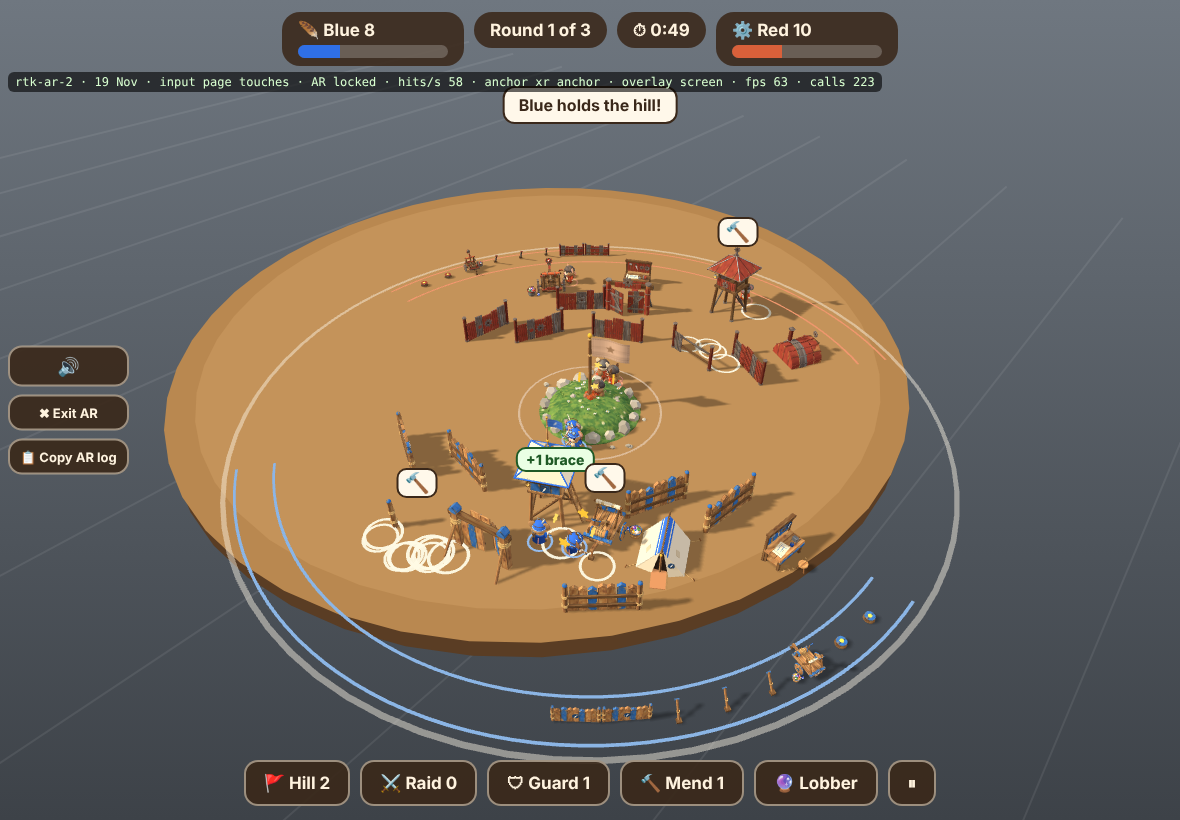
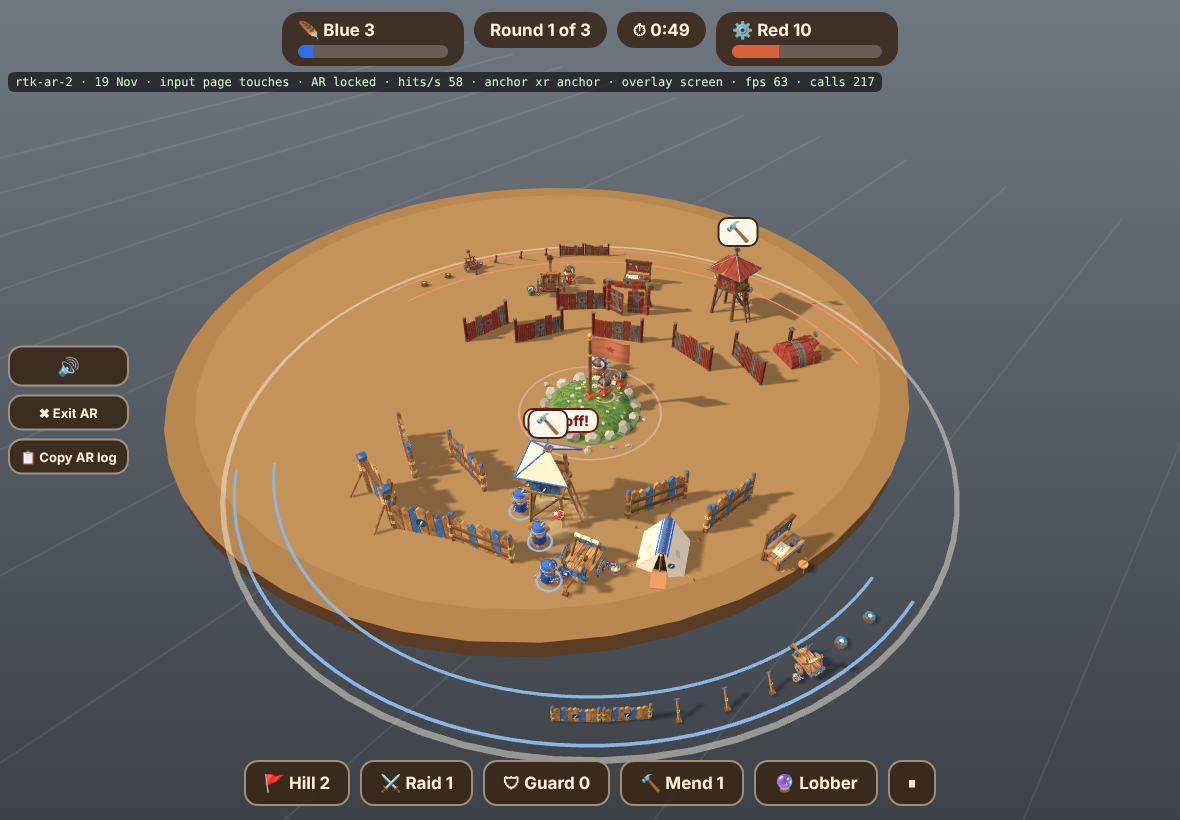
Round Table Kingdom v2: tuned numbers (hill 24 s a Big Marble, red walks a little quicker), AR small-piece test
Claude-Session: https://claude.ai/code/session_0171oc5wTsPoimaja7RRfUcs

diff --git a/games/sofa-siege/game.js b/games/sofa-siege/game.js
@@ -23,10 +23,10 @@ var CONFIG={
     blast:.3,bigBlast:.36,sturdy:.55,                      /* how far a marble and a Big Marble knock parts off (at piece scale 0.88); posts and rails only come off within this share of it; a Big Marble that lands on the Keep breaks the leg nearest to where it hit, braced or not */
     throwNear:.6,throwFar:.2,                   /* how far a knocked part flies: nearest to the hit, and at the edge of the blast */
     corkCount:5,corkSpread:.42,corkHit:.2,corkCd:8,   /* cork scatter: corks, spread, how near a cork must land to make a mouse dizzy, seconds before the next scatter */
-    hillSecs:18,bigMax:3,                       /* seconds holding the hill for one Big Marble; most that can be stored */
+    hillSecs:24,bigMax:3,                       /* seconds holding the hill for one Big Marble; most that can be stored */
     piecePts:{tower:54,lobber:8,wall:5,gate:3.5,workshop:4,tent:5,brace:1,trap:1},collapsePts:2,hillPts:.07,        /* score: what a whole piece is worth when all of it is off at a round's end; each part off counts its share (the Keep counts most, walls least, so walls are not a gift to the other side, and blue's seven-plank walls count the same as red's five-plank ones); a collapse you caused; a second of hill for each mouse more than the other side */
-    mendTime:12,                                /* seconds to put one part back */
-    raidEvery:3,redRaid:1,raidReach:.4,        /* seconds between a raider's pulls; red's are this much quicker; reach */
+    mendTime:12,redWalk:1.15,                   /* seconds to put one part back; red's mice walk this much quicker in the fight (it evens out blue's edge: with the same speed blue won about two matches in three) */
+    raidEvery:3,redRaid:1,raidReach:.4,        /* seconds between a raider's pulls; red's interval times this (1: the same for both); reach */
     guardRange:1.1,blueGuard:1.5,guardEvery:2,guardChance:.45,guardRing:.55,   /* guard corks: reach, blue's reach times this, seconds between, chance to send the raider home dizzy, how far guards stand from the Keep */
     fallReach:.2,chainReach:.13,chainThrow:.42, /* a landing part makes mice this near dizzy, and knocks an attached part this near if it was thrown at least this far */
     collapseReach:.25,slowMo:.4,keepFall:2.4,   /* a collapse makes mice this near the piece dizzy; slow-motion seconds; seconds a Keep takes to fall before the win card */
@@ -35,9 +35,9 @@ var CONFIG={
     shopMend:.5,tentDizzy:3,twoLobbers:.55,trapReach:.2,trapReset:2,   /* a whole workshop halves mending time; a whole tent: dizzy for 3 s; two lobbers: reload times this; trap reach; seconds to set a trap again */
     arcLow:[.1,.09],arcHigh:[.3,.24],highBlast:.5,   /* arc height = a + distance x b: the flat shot is stopped by a wall just in front of its target, the high lob clears it but has this share of the blast */
     plan:{hill:2,raid:1,guard:0,mend:1},        /* how a bot (and a player to begin with) splits the four mice that are not at the lobber */
-    randomAim:1.9,botHigh:.5,botFirst:1.5,       /* a random-fire bot's spread round the other base; how often an aiming bot lobs over a wall in its way; seconds before a bot's first shot of a round */
-    legSturdy:.5,braceSturdy:.7,   /* an unbraced leg breaks only when the hit is within this share of the blast */
-    aimWorth:{leg:30,lastLeg:60,brace:3,mouse:2},aimTry:[-.25,0,.2,.45],bigWorth:8,aimDeep:5,   /* the aiming bot values a shot by the points it would score, plus this much for a Keep leg (more for the leg that brings it down) and for a Keep brace; how far before and past a part it tries; a Big Marble is kept for a shot worth this much more */
+    randomAim:1.9,botFirst:1.5,                 /* a random-fire bot's spread round the other base; seconds before a bot's first shot of a round */
+    legSturdy:.5,braceSturdy:.7,                /* an unbraced Keep leg, and a Keep brace, come off only when the hit is within this share of the blast */
+    aimWorth:{leg:30,lastLeg:60,brace:3,mouse:2},aimTry:[-.25,0,.2,.45],bigWorth:8,aimDeep:5,   /* the aiming bot values a shot by the points it would score, plus this much for a Keep leg (more for the leg that brings it down) and for a Keep brace; how far before and past a part it tries; a Big Marble is kept for a shot worth this much more; how many of its best shots it tries again with its wobble */
     botRetarget:4                               /* seconds between a bot's looks at its plan */
   },
   /* per level: seconds between bot shots, aim error, seconds before it sends its squad, and how many points ahead the red bot must be before it spares a scrapper for the walls */
@@ -561,7 +561,7 @@ function freeV2(m,dt){
   else if(role==='raid'&&SG.phase==='fight'){p=raidTarget(m);if(p){tx=p.x;tz=p.z;slack=.8;m.raidId=p.id;}else m.raidId=0;}
   else{var od=side.order||(function(){var w=hillSpot(m.side,0,.25);return {x:w[0],z:w[1]};})(),a=m.i/5*PI*2+.3,rad=CONFIG.squadRing*U()*.8,off=rotV(m.side,Math.cos(a)*rad,Math.sin(a)*rad);tx=od.x+off[0];tz=od.z+off[1];slack=.35;}
   m.crewGoal=role==='crew';goTo(m,tx,tz,slack);
-  if(walk(m,dt,WALK())){m.state=role==='hill'||role==='crew'||role==='guard'||role==='raid'?'hold':'idle';m.goal=false;m.crewing=role==='crew';if(role==='crew'){var lb=lobberOf(m.side);m.rot=Math.atan2(lb.x-m.x,lb.z-m.z);}}else{m.state='go';m.goal=m.q<=0;m.crewing=false;}
+  if(walk(m,dt,WALK()*(side.team==='red'?C2.redWalk:1))){m.state=role==='hill'||role==='crew'||role==='guard'||role==='raid'?'hold':'idle';m.goal=false;m.crewing=role==='crew';if(role==='crew'){var lb=lobberOf(m.side);m.rot=Math.atan2(lb.x-m.x,lb.z-m.z);}}else{m.state='go';m.goal=m.q<=0;m.crewing=false;}
   if(SG.phase!=='fight'||role==='crew')return;
   if(role==='raid'&&m.cd<=0&&m.raidId){p=pieceById(m.raidId);if(p&&!p.down&&boxDist(p,m.x,m.z)<=C2.raidReach*U()){i=raidPart(p,m,false);if(i>=0){SG.att=m.side;SG.cause='raid';knock(p,i,p.x-m.x,p.z-m.z,'raid',.2*U());settle(p,m.side);SG.stats.raidPulls++;m.cd=C2.raidEvery*(side.team==='red'?C2.redRaid:1);m.act=.7;m.rot=Math.atan2(p.x-m.x,p.z-m.z);}}}
   else if(role==='guard'&&m.cd<=0){var best=null,bd=C2.guardRange*U()*(side.team==='blue'?C2.blueGuard:1);SG.mice.forEach(function(o){if(o.side!==en||o.state==='dizzy')return;var d=dist(m.x,m.z,o.x,o.z);if(d<bd&&sightClear(m.x,m.z,o.x,o.z)){bd=d;best=o;}});

diff --git a/games/sofa-siege/tests/ar-test.js b/games/sofa-siege/tests/ar-test.js
@@ -186,6 +186,12 @@ const run = async () => {
   p = await open({ supported: true, timeStep: 16 }); await p.click('#bAR'); await p.waitForFunction('SG.ar.on');
   await p.evaluate(() => { __XRF.session.end = () => new Promise(() => {}); SG.arLeave(); }); await p.waitForTimeout(1100);
   ok('Exit AR tidies up even when the session never answers', await p.evaluate(() => !SG.ar.on && SG.phase === 'start' && document.body.className === '')); await p.close();
+  /* piece size in AR: a table under 80 cm always gets the small pieces; a bigger one keeps the size chosen on the title */
+  if (!V1) { const sizeAt = async (cm) => { p = await open({ supported: true, timeStep: 16 }); await p.click('#z_large'); await p.click('#bAR'); await p.waitForFunction('SG.ar.on'); await p.evaluate(() => { __XRF.cam = { pos: [0, 0, 0], target: [0, -0.45, -0.9] }; });
+      for (let i = 0; i < 6; i++) await p.evaluate(() => new Promise((r) => requestAnimationFrame(r))); await p.mouse.click(590, 300); await p.waitForTimeout(100); await p.evaluate((cm) => SG.arResize(cm), cm); await p.click('#arLock'); await p.waitForTimeout(150);
+      const o = await p.evaluate(() => ({ size: SG.ar.size, pieces: SG.pieceSize, phase: SG.phase, state: SG.ar.state, unit: SG.unit() })); await p.close(); return o; };
+    const sm = await sizeAt(70), lg = await sizeAt(100);
+    ok('in AR a table under 80 cm uses the small pieces even when large was chosen; at 100 cm the chosen size stays', sm.state === 'locked' && sm.size === 70 && sm.pieces === 'small' && lg.size === 100 && lg.pieces === 'large', JSON.stringify([sm, lg])); }
   ok('no page errors in any of it', errs.length === 0, errs.join(' | '));
   console.log('test took ' + ((Date.now() - T0) / 1000).toFixed(0) + ' s');
   console.log(bad ? ('FAILED ' + bad + ' of ' + n) : ('ALL ' + n + ' PASSED'));
